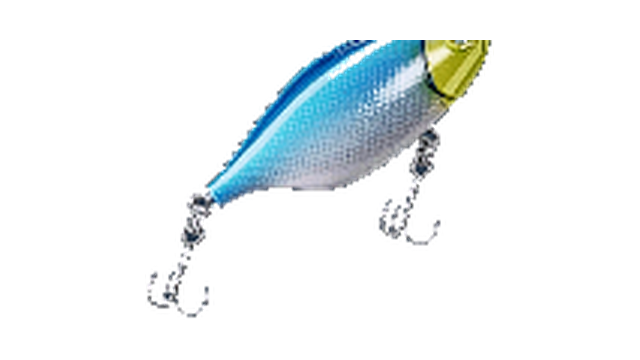
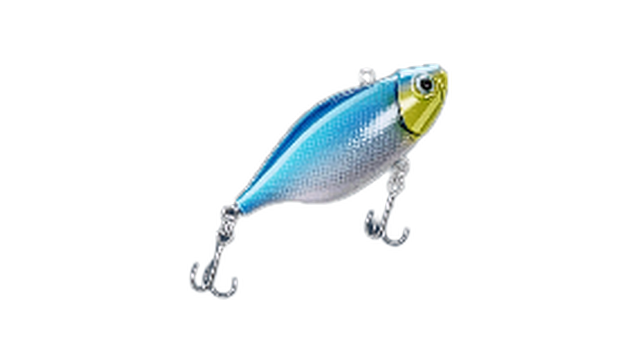
Update high tier lure images

Changed region(s): [[0.2188, 0.0917, 0.7812, 0.8556], [0.2812, 0.8556, 0.3125, 0.8861]]

diff --git a/js/data.js b/js/data.js
@@ -966,7 +966,7 @@ const DATA = {
       },
       {
         "id": "deep-diving-giant-vibration",
-        "image": "img/gear/deep-diving-giant-vibration.png?v=gear6",
+        "image": "img/gear/deep-diving-giant-vibration.png?v=lure7",
         "nameEn": "Deep-Diving Giant Vibration Lure",
         "nameKr": "심해 대형 어류 진동 루어",
         "note": "피콕하인드·새끼상어용 (5클)",
@@ -975,15 +975,15 @@ const DATA = {
       },
       {
         "id": "steel-ball-acoustic",
-        "image": "img/gear/steel-ball-acoustic.png?v=gear6",
+        "image": "img/gear/steel-ball-acoustic.png?v=lure7",
         "nameEn": "Steel-Ball Acoustic Lure",
         "nameKr": "스틸볼 사운드 루어",
         "price": 19,
-        "tier": 5
+        "tier": 6
       },
       {
         "id": "gold-plated-competition",
-        "image": "img/gear/gold-plated-competition.png?v=gear6",
+        "image": "img/gear/gold-plated-competition.png?v=lure7",
         "nameEn": "Gold-Plated Competition Lure",
         "nameKr": "골드 컴피티션 루어",
         "price": 21,

diff --git a/index.html b/index.html
@@ -8,7 +8,7 @@
 <meta name="theme-color" content="#050506">
 <link rel="icon" href="img/favicon.ico" sizes="16x16 32x32 48x48">
 <link rel="icon" type="image/png" href="img/favicon-32.png" sizes="32x32">
-<link rel="stylesheet" href="css/style.css?v=bait-img1">
+<link rel="stylesheet" href="css/style.css?v=lure-img1">
 </head>
 <body>
 <header class="site-header">
@@ -26,7 +26,7 @@
 <footer class="site-footer">
   <p>델타포스 S11 "재정향" 낚시 콘텐츠 비공식 정리. 인게임 미확인 명칭은 <span class="badge badge-unconfirmed">미확인</span>으로 표시.</p>
 </footer>
-<script src="js/data.js?v=bait-img1"></script>
-<script src="js/app.js?v=bait-img1"></script>
+<script src="js/data.js?v=lure-img1"></script>
+<script src="js/app.js?v=lure-img1"></script>
 </body>
 </html>
